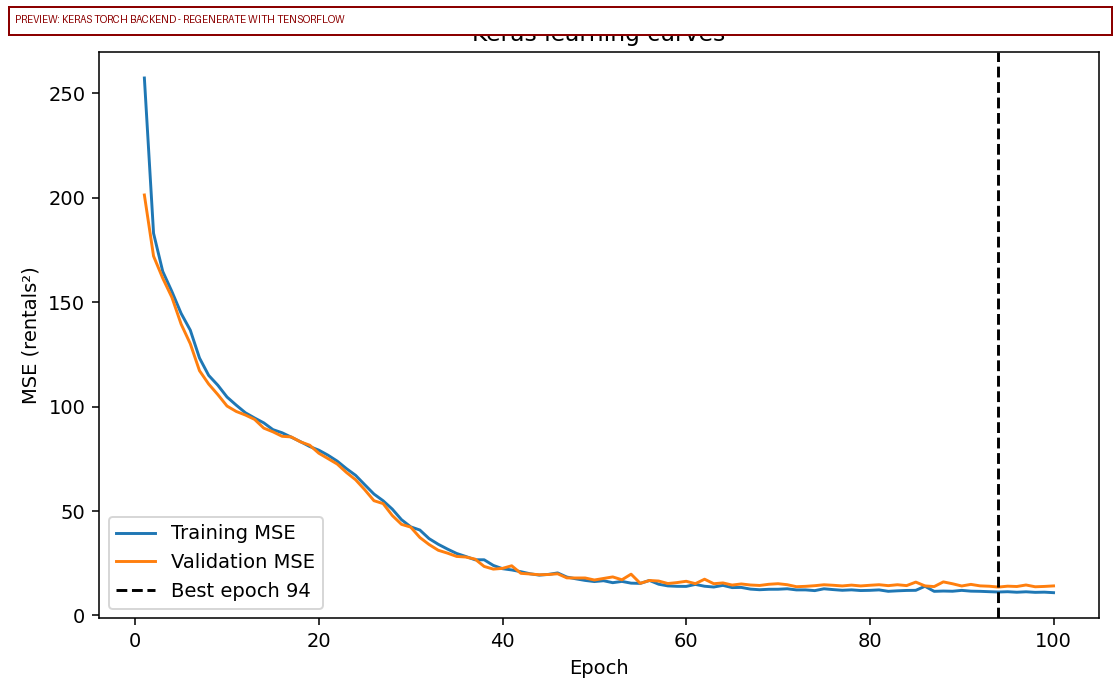
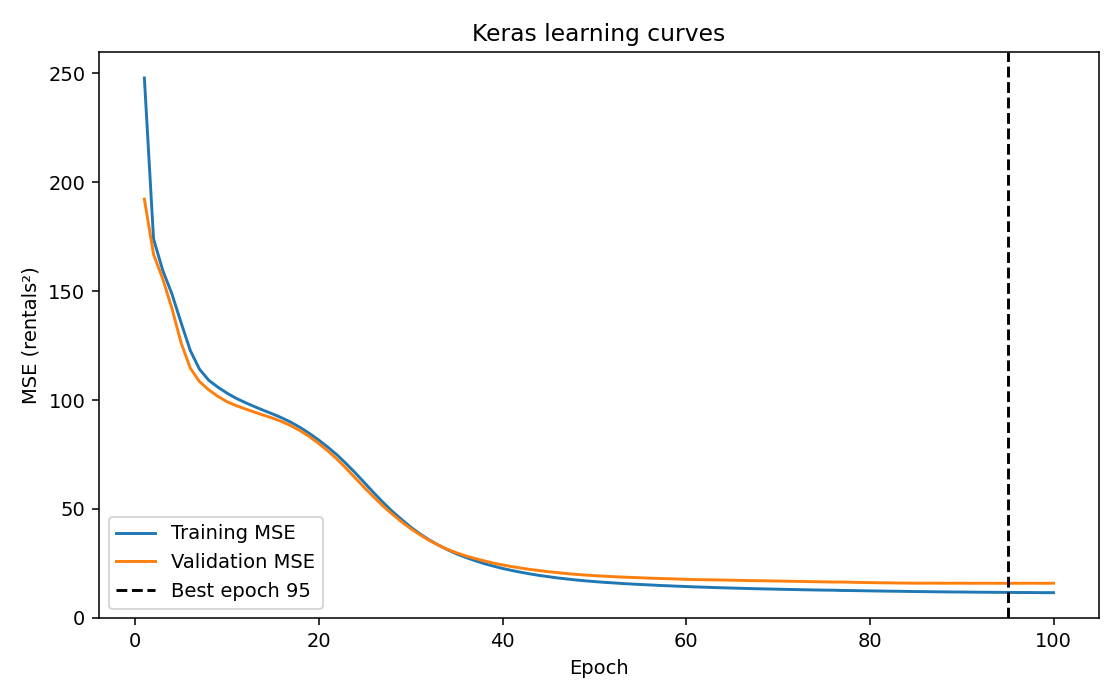
Fix Keras imports and Ruff linting

diff --git a/tests/test_keras.py b/tests/test_keras.py
@@ -2,7 +2,6 @@
 
 import numpy as np
 import pytest
-import torch
 from keras import models
 from sklearn.metrics import mean_squared_error
 
@@ -80,7 +79,11 @@ def test_keras_save_reload_same_predictions(tmp_path):
 def test_best_weights_restored(tmp_path):
     data = prepare_data(seed=17, n=120)
     model, history, best_epoch, _ = train_keras(
-        data, seed=17, epochs=5, hidden=8, batch_size=16,
+        data,
+        seed=17,
+        epochs=5,
+        hidden=8,
+        batch_size=16,
         checkpoint=tmp_path / "best.keras",
     )
     assert len(history) == 5
@@ -94,12 +97,20 @@ def test_best_weights_restored(tmp_path):
 def test_same_seed_repeats_short_run(tmp_path):
     data = prepare_data(seed=31, n=120)
     first, h1, _, _ = train_keras(
-        data, seed=31, epochs=3, hidden=8, batch_size=16,
+        data,
+        seed=31,
+        epochs=3,
+        hidden=8,
+        batch_size=16,
         checkpoint=tmp_path / "first.keras",
     )
     pred1 = first.predict(data.x_valid, verbose=0)
     second, h2, _, _ = train_keras(
-        data, seed=31, epochs=3, hidden=8, batch_size=16,
+        data,
+        seed=31,
+        epochs=3,
+        hidden=8,
+        batch_size=16,
         checkpoint=tmp_path / "second.keras",
     )
     np.testing.assert_allclose(

diff --git a/train_keras.py b/train_keras.py
@@ -1,7 +1,7 @@
 """Keras compile/fit training on the EXACT Lab 07 prepared arrays."""
 
-from pathlib import Path
 import time
+from pathlib import Path
 
 import keras
 import matplotlib.pyplot as plt
@@ -99,10 +99,12 @@ def main():
     plot_keras_curves(history, best_epoch, REPORTS / "learning_curves_keras.png")
     val_predictions = np.asarray(model.predict(data.x_valid, verbose=0)).reshape(-1)
     test_predictions = np.asarray(model.predict(data.x_test, verbose=0)).reshape(-1)
-    print(f"Best epoch: {best_epoch}; validation MAE: "
-          f"{mean_absolute_error(data.y_valid, val_predictions):.4f}; "
-          f"test MAE: {mean_absolute_error(data.y_test, test_predictions):.4f}; "
-          f"seconds: {seconds:.2f}")
+    print(
+        f"Best epoch: {best_epoch}; validation MAE: "
+        f"{mean_absolute_error(data.y_valid, val_predictions):.4f}; "
+        f"test MAE: {mean_absolute_error(data.y_test, test_predictions):.4f}; "
+        f"seconds: {seconds:.2f}"
+    )
     print("Saved reports/history_keras.csv and reports/learning_curves_keras.png")
 
 

diff --git a/keras_model.py b/keras_model.py
@@ -36,9 +36,12 @@ def check_equivalence(torch_model, keras_model, valid_features, tolerance=1e-5):
     """Report worst absolute error on the SAME validation rows."""
     torch_model.eval()
     with torch.no_grad():
-        torch_predictions = torch_model(
-            torch.as_tensor(valid_features, dtype=torch.float32)
-        ).cpu().numpy().reshape(-1)
+        torch_predictions = (
+            torch_model(torch.as_tensor(valid_features, dtype=torch.float32))
+            .cpu()
+            .numpy()
+            .reshape(-1)
+        )
     keras_predictions = np.asarray(
         keras_model.predict(valid_features, verbose=0)
     ).reshape(-1)

diff --git a/compare.py b/compare.py
@@ -19,9 +19,7 @@ COLUMNS = ["framework", "seed", "best_epoch", "validation_mae", "test_mae", "sec
 def pytorch_run(data, seed, epochs=EPOCHS, hidden=HIDDEN):
     """Train original Lab 07 loop with precisely the main settings."""
     seed_everything(seed)
-    train_loader, valid_loader, _ = make_loaders(
-        data, batch_size=BATCH_SIZE, seed=seed
-    )
+    train_loader, valid_loader, _ = make_loaders(data, batch_size=BATCH_SIZE, seed=seed)
     network = BikeNet(data.x_train.shape[1], hidden=hidden)
     start = time.perf_counter()
     _, best_epoch = fit_network(

diff --git a/SETUP_AND_SUBMISSION.md b/SETUP_AND_SUBMISSION.md
@@ -50,6 +50,7 @@ python compare.py
 python -m ruff format .
 python -m ruff format --check .
 python -m ruff check .
+python -m ruff check . --fix
 python -m pytest
 ```
 
